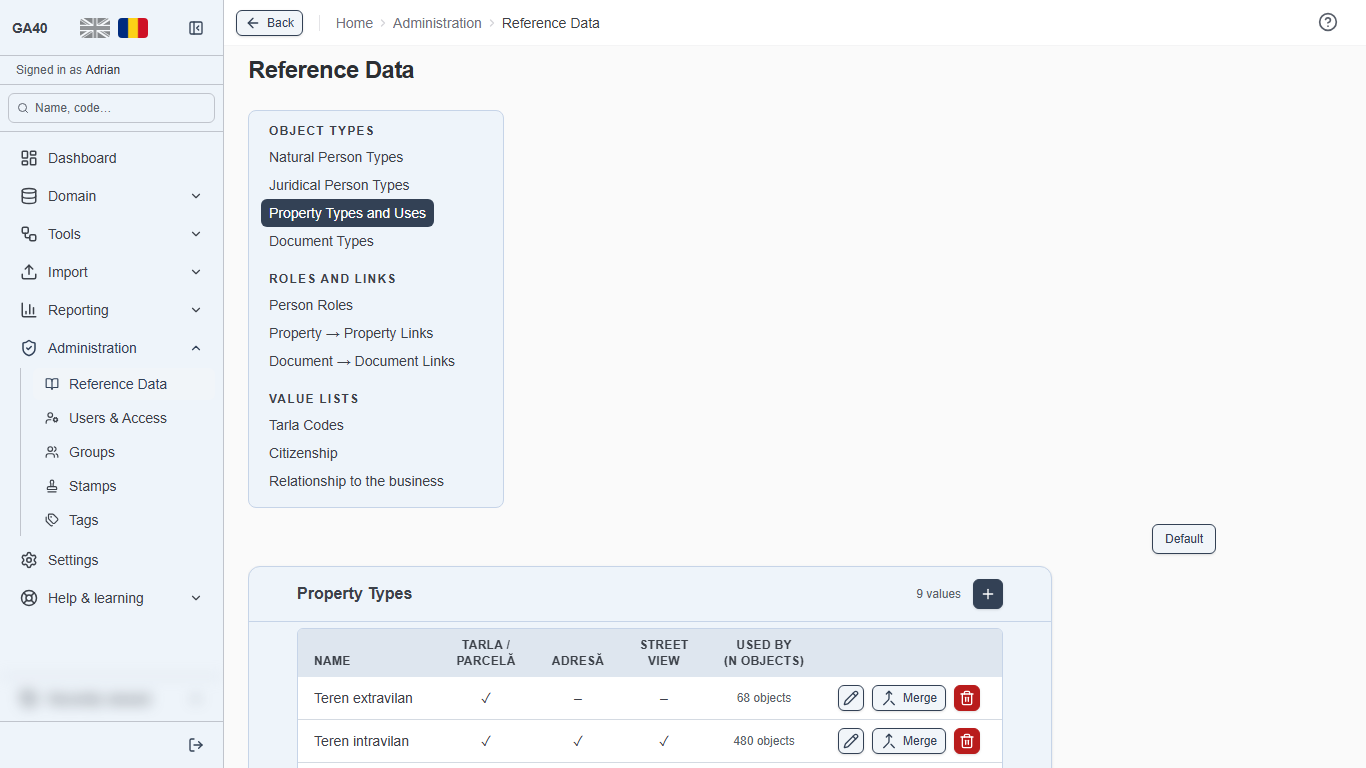
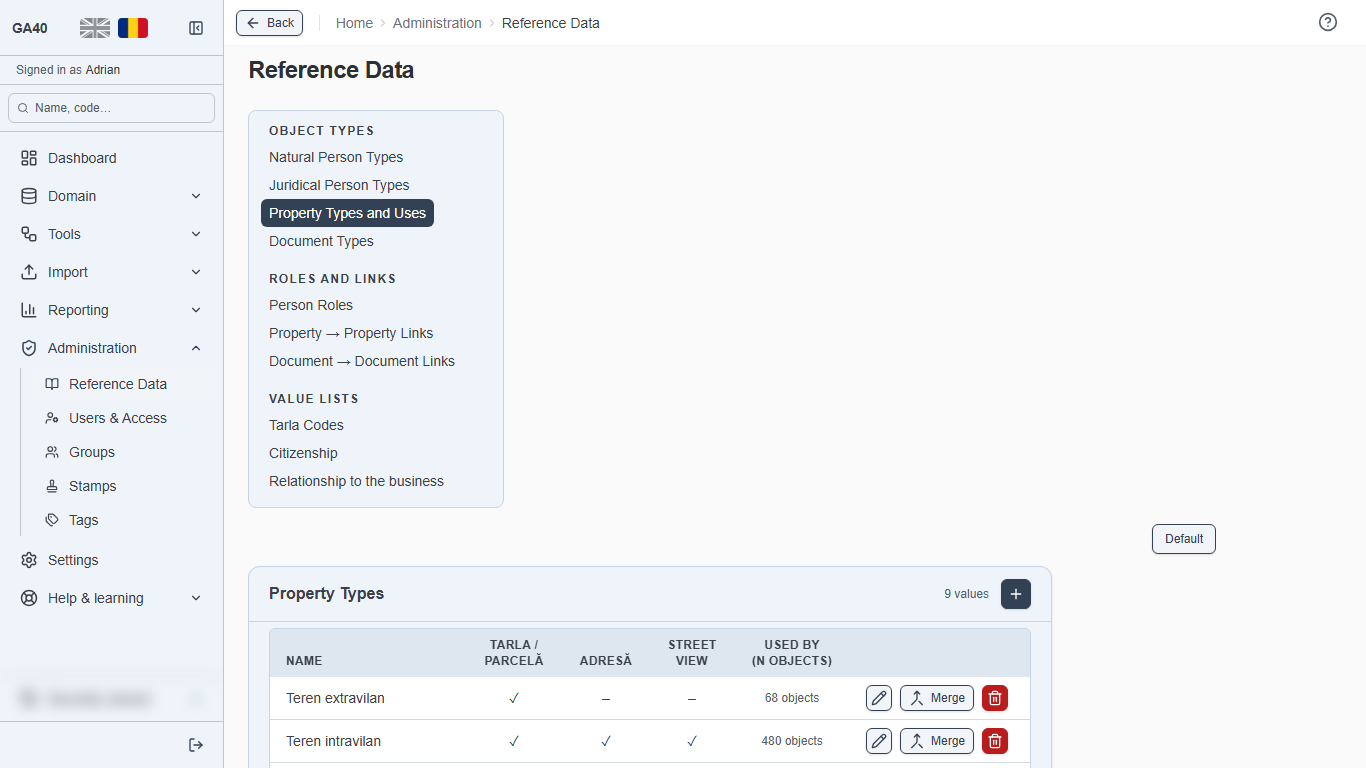
docs(manual): figure 12.1 re-shot, both languages; the tarla outline under 200 characters; skill 1.7 keeps five sections
Slice 39.90. Runner 20261019T011052Z-8798: the properties-tarla outline line was over 200 characters in both languages,
and skill 1.7 named six manual sections where five is the most. The outline lines are shorter; skill 1.7 keeps its
five, and its two new questions point at properties-tarla by their own section.

Figure 12.1 (admin-value-lists.png), shot by that run from the property types' page: the list now fills its tile at
the standard gap (#39.88). Property types only — no one's identity fields; nothing redacted.

Claude-Session: https://claude.ai/code/session_01GFB5gkUkzp8JuNfSvPuEyM

diff --git a/src/lib/manual/outline/ro-RO.ts b/src/lib/manual/outline/ro-RO.ts
@@ -70,7 +70,7 @@ export const OUTLINE: Readonly<Record<string, string>> = {
   "properties-add-address": "Cum completezi adresa unei proprietăți (stradă, localitate, județ, țară) și cum preiei automat adresa din Street View, căutare taxată de Google.",
   "properties-add-one-parcel": "De ce nu poți salva a doua proprietate pe aceeași tarla și parcelă, ce mesaj apare la un duplicat și cum deschizi proprietatea care există deja.",
   "properties-add-edit": "Cum modifici sau ștergi (elimini) o proprietate, ce înseamnă „Modificări nesalvate” și cum fiecare salvare creează o versiune nouă.",
-  "properties-tarla": "De ce o tarla aparține unei localități, pagina tarlalei cu fișele ei (limite, note, contur, planuri și parcele, proprietăți, acte) și butoanele de jos, ce surse există pentru limite și localitatea unui import.",
+  "properties-tarla": "De ce o tarla aparține unei localități, pagina tarlalei: fișele ei (limite, note, contur, planuri, parcele, proprietăți, acte) și butoanele de jos; sursele limitelor; localitatea unui import.",
   "properties-type": "Ce schimbă tipul proprietății (teren arabil, teren construit etc.), cum îl alegi și ce spune ⓘ despre fișele pe care tipul le arată sau le ascunde.",
   "properties-type-tiles": "Ce fișe (panouri) are ecranul unei proprietăți — identificare cadastrală, adresă, legături, hartă, colțuri, Street View — și cum le arăți sau ascunzi.",
   "properties-type-hidden": "De ce „Adresă” și „Street View” sunt gri și nu se pot bifa la unele tipuri de proprietate, cum e terenul arabil fără adresă poștală.",

diff --git a/src/lib/manual/outline/en-GB.ts b/src/lib/manual/outline/en-GB.ts
@@ -70,7 +70,7 @@ export const OUTLINE: Readonly<Record<string, string>> = {
   "properties-add-address": "How to enter a property's address (street, locality, county, country) and fetch the address automatically from Street View, a look-up Google charges for.",
   "properties-add-one-parcel": "Why you cannot save a second property for the same tarla and parcela, the message shown for a duplicate, and how to open the property that already exists.",
   "properties-add-edit": "How to change, edit or delete (remove) a property, what „Unsaved changes” means, and how every save creates a new version.",
-  "properties-tarla": "Why a tarla belongs to a locality, a tarla's page with its tiles (boundaries, notes, outline, plans and parcels, properties, documents) and its buttons at the bottom, which sources exist for boundaries, and an import's locality.",
+  "properties-tarla": "Why a tarla belongs to a locality; a tarla's page: its tiles (boundaries, notes, outline, plans, parcels, properties, documents) and buttons at the bottom; boundary sources; an import's locality.",
   "properties-type": "What the property type (arable land, built-up land etc.) changes, how to choose it, and what its ⓘ says about the tiles the type shows or hides.",
   "properties-type-tiles": "Which tiles (panels) a property screen has — cadastral identification, address, links, map, corners, Street View — and how to show or hide them.",
   "properties-type-hidden": "Why „Address” and „Street View” are greyed out and cannot be ticked for some property types, such as arable land with no postal address.",

diff --git a/src/lib/skills/catalogue.ts b/src/lib/skills/catalogue.ts
@@ -267,8 +267,7 @@ export const SKILLS: readonly Skill[] = [
     // Slice #39.67: a tarla belongs to a locality — its pages and the case of two T50.
     screens: ["properties-list", "property-detail", "tarla-list", "tarla-detail"],
     cases: ["TC-PROP-01", "TC-PROP-05", "TC-PROP-11", "TC-PROP-12", "TC-PROP-16"],
-    // #39.90: and the tarla page's buttons at the bottom („Anulează", „Șterge"), asked in quiz 1.7.
-    manual: ["properties-add", "properties-type", "properties-add-one-parcel", "properties-add-cadastral", "properties-type-hidden", "properties-tarla"],
+    manual: ["properties-add", "properties-type", "properties-add-one-parcel", "properties-add-cadastral", "properties-type-hidden"],
   },
   {
     key: "properties-read-the-map",
